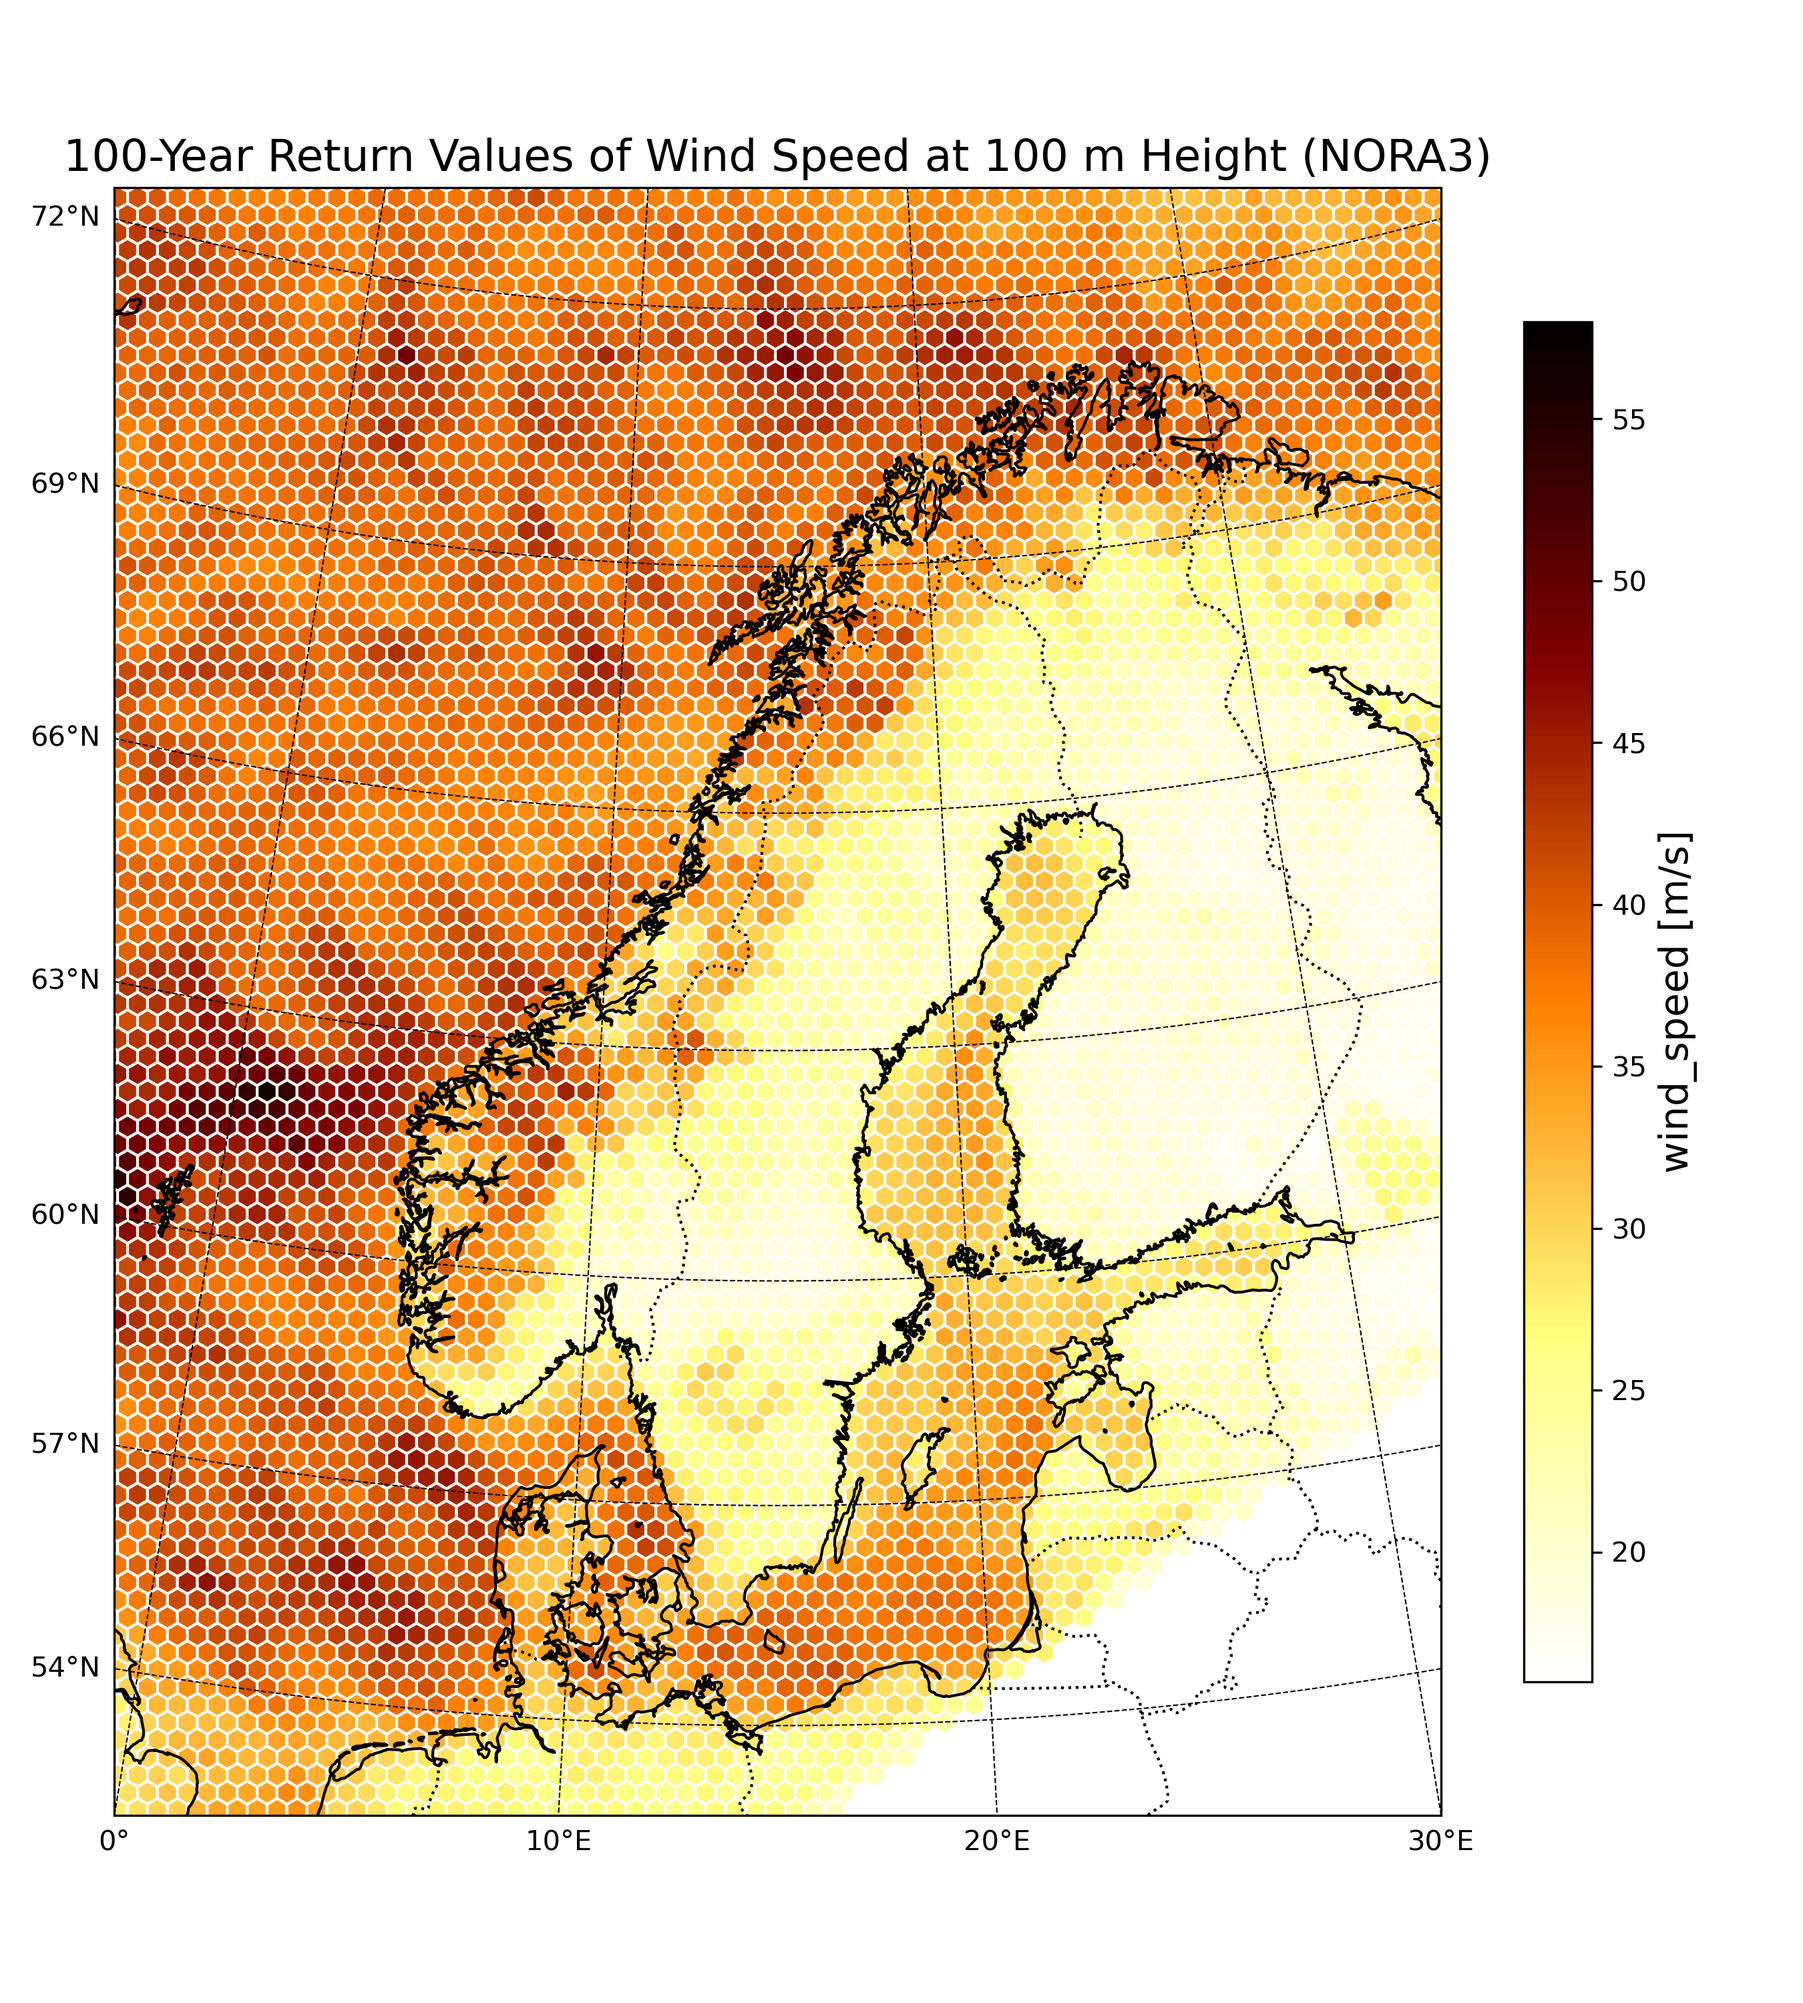
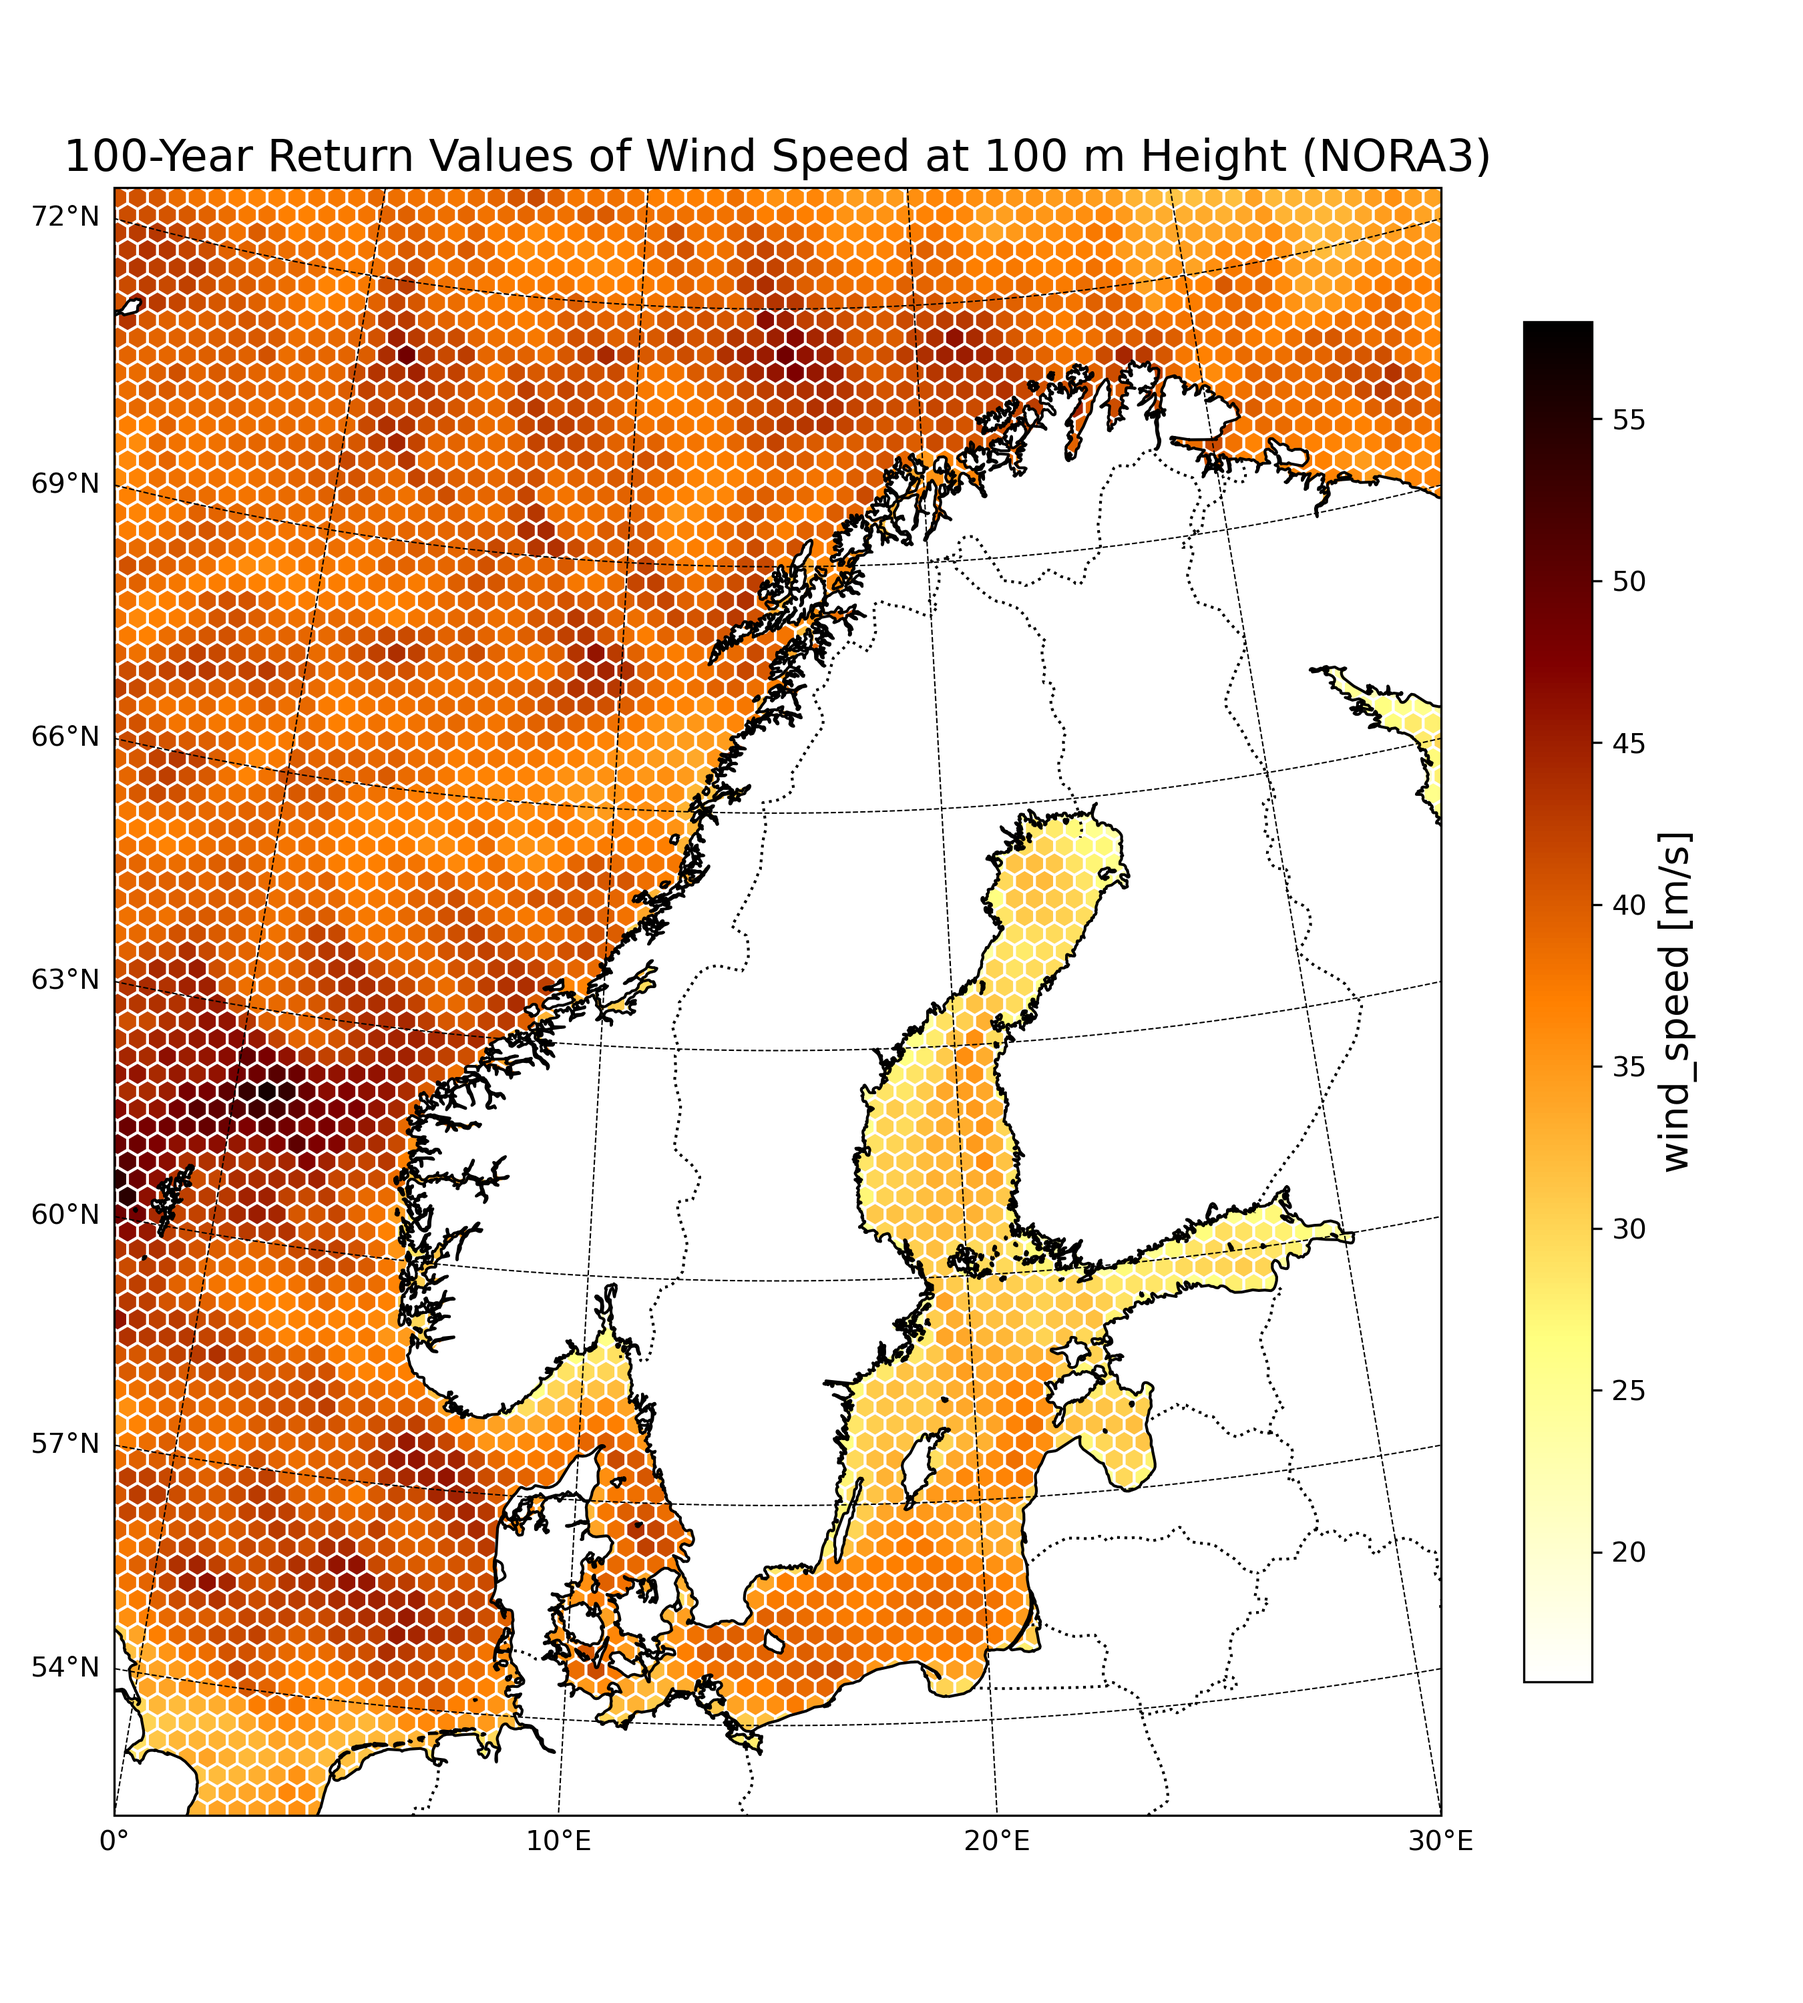
Updated hs and wind speed extreme functions in maps file. Added land mask to hexbin figure. Updated example file.

Changed region(s): [[0.1867, 0.186, 0.8089, 0.93], [0.0622, 0.837, 0.1244, 0.93], [0.4978, 0.713, 0.5289, 0.744]]

diff --git a/metocean_stats/maps/maps.py b/metocean_stats/maps/maps.py
@@ -259,7 +259,6 @@ def plot_extreme_wave_map(return_period=100, product='NORA3', title='empty title
     Plots a map of extreme significant wave height for a given return period using the specified dataset and visualization method.
 
     Parameters:
-    ----------
     - return_period : int, optional, default=100
         The return period in years for calculating the extreme current speeds. Choose between 50 or 100 years.
     - product : str, optional, default='NORA3'
@@ -280,29 +279,27 @@ def plot_extreme_wave_map(return_period=100, product='NORA3', title='empty title
             - 'min'   : Includes all values from the minimum.
 
     Returns:
-    -------
     - fig : matplotlib.figure.Figure
         The figure object containing the generated map plot.
     '''    
     if product == 'NORA3':
-        ds = xr.open_dataset(f'https://thredds.met.no/thredds/dodsC/nora3_subset_stats/atm/CF_hs_{return_period}y_extreme_gumbel_NORA3.nc')
-        
+        ds = xr.open_dataset(f'https://thredds.met.no/thredds/dodsC/nora3_subset_stats/wave/CF_hs_{return_period}y_extreme_gumbel_NORA3.nc')
+
     else:
         print(product, 'is not available')
         return
-    
-    # Transform coordinates based on rotated pole projection
-    lon, lat, _ = get_transformed_coordinates(ds, 'rlon', 'rlat', projection_type= 'rotated_pole') 
+      
     standard_lon, standard_lat = ds['rlon'].values, ds['rlat'].values 
-    
+    standard_lon, standard_lat = np.meshgrid(standard_lon, standard_lat)
+
     data = xr.DataArray(ds['hs'], dims=ds['hs'].dims, coords=ds['hs'].coords)
     data_flat = ds['hs'].values.flatten()
 
     # Remove NaN values
     mask = ~np.isnan(data_flat)
     data_flat = data_flat[mask]
-    lon_flat = lon.flatten()[mask]
-    lat_flat = lat.flatten()[mask]
+    lon_flat = standard_lon.flatten()[mask]
+    lat_flat = standard_lat.flatten()[mask]
 
     # Figure and map
     fig = plt.figure(figsize=(9, 10))
@@ -312,8 +309,14 @@ def plot_extreme_wave_map(return_period=100, product='NORA3', title='empty title
     ax.add_feature(cfeature.LAND, facecolor='white', zorder=2)
     cmap = 'afmhot_r'
 
+    # Rotated projection
+    rotated_pole = ccrs.RotatedPole(
+        pole_latitude=ds.projection_ob_tran.grid_north_pole_latitude,
+        pole_longitude=ds.projection_ob_tran.grid_north_pole_longitude
+    )   
+
     if method == 'hexbin':
-        hb = ax.hexbin(lon_flat, lat_flat, C=data_flat, gridsize=180, cmap=cmap, vmin=np.min(data_flat), vmax=np.max(data_flat), edgecolors='white', transform=ccrs.PlateCarree(), reduce_C_function=np.mean, zorder=1)
+        hb = ax.hexbin(lon_flat, lat_flat, C=data_flat, gridsize=180, cmap=cmap, vmin=np.min(data_flat), vmax=np.max(data_flat), edgecolors='white', transform=rotated_pole, reduce_C_function=np.mean, zorder=1)
         cb = plt.colorbar(hb, ax=ax, orientation='vertical', shrink=0.7, pad=0.05)
         cb.set_label(ds['hs'].attrs.get('standard_name', 'hs') + ' [' + ds['hs'].attrs.get('units', 'm') + ']', fontsize=14)
 
@@ -336,12 +339,6 @@ def plot_extreme_wave_map(return_period=100, product='NORA3', title='empty title
 
         print('Levels contour:', levels_contour)
         print('Levels contourf:', levels_contourf)
-
-        # Rotated projection
-        rotated_pole = ccrs.RotatedPole(
-            pole_latitude=ds.projection_ob_tran.grid_north_pole_latitude,
-            pole_longitude=ds.projection_ob_tran.grid_north_pole_longitude
-        )   
 
         # Filled contour
         cm = plt.contourf(standard_lon, standard_lat, data,levels=levels_contourf, transform=rotated_pole,cmap=cmap, alpha = 0.6, zorder=1, vmin =0, vmax =int(max_val))
@@ -366,7 +363,7 @@ def plot_extreme_wave_map(return_period=100, product='NORA3', title='empty title
 
 
 # Function to plot extreme wind map
-def plot_extreme_wind_map(return_period=100, product='NORA3', z=0, title='empty title', set_extent=[0, 30, 52, 73], output_file='extreme_wind_map.png', method='hexbin', percentile_contour=50):
+def plot_extreme_wind_map(return_period=100, product='NORA3', z=0, title='empty title', set_extent=[0, 30, 52, 73], output_file='extreme_wind_map.png', land_mask=False, method='hexbin', percentile_contour=50):
     '''
     Plots a map of extreme wind speeds for a given return period using the specified dataset and visualization method.
 
@@ -383,6 +380,8 @@ def plot_extreme_wind_map(return_period=100, product='NORA3', z=0, title='empty 
         The map extent specified as [lon_min, lon_max, lat_min, lat_max].
     - output_file: str, optional, default='extreme_wind_map.png'
         The filename to save the plot.
+    - land_mask : bool, optional, default=False  
+        If True, apply a mask to exclude land areas.
     - method : str, optional, default='hexbin'
         Visualization method to use. Options:
             - 'hexbin'  : Plot data using a hexagonal binning with color shading.
@@ -405,8 +404,8 @@ def plot_extreme_wind_map(return_period=100, product='NORA3', z=0, title='empty 
         print(product, 'is not available')
         return
     
-    # Transformed coordinates
-    standard_lon, standard_lat, _ = get_transformed_coordinates(ds, 'x', 'y', projection_type='lambert_conformal')
+    standard_lon = xr.DataArray(ds['longitude'])
+    standard_lat = xr.DataArray(ds['latitude'])
 
     data = ds['wind_speed'].sel(z=z)
     data = Gaussian_filter(data, 1.5)
@@ -415,8 +414,8 @@ def plot_extreme_wind_map(return_period=100, product='NORA3', z=0, title='empty 
     data_flat = ds['wind_speed'].sel(z=z).values.flatten()
     mask = ~np.isnan(data_flat)
     data_flat = data_flat[mask]
-    lon_flat = standard_lon.flatten()[mask]
-    lat_flat = standard_lat.flatten()[mask]
+    lon_flat = standard_lon.values.flatten()[mask]
+    lat_flat = standard_lat.values.flatten()[mask]
 
     # Finding max value in specified area
     lon_min, lon_max, lat_min, lat_max = set_extent
@@ -437,6 +436,9 @@ def plot_extreme_wind_map(return_period=100, product='NORA3', z=0, title='empty 
     ax.coastlines(resolution='10m', zorder=3)
     ax.add_feature(cfeature.BORDERS, linestyle=':', zorder=3)
     cmap='afmhot_r'
+    if land_mask == True:
+        ax.add_feature(cfeature.LAND, facecolor='white', zorder=2)
+    
 
     if method == 'hexbin':
         hb = ax.hexbin(lon_flat, lat_flat, C=data_flat, gridsize=180, cmap=cmap, vmin=min_val, vmax=max_val, edgecolors='white', transform=ccrs.PlateCarree(), reduce_C_function=np.mean, zorder=1)
@@ -520,7 +522,7 @@ def plot_extreme_current_map(return_period=100, z='surface', distribution='gumbe
     '''
 
     if product == 'NORA3':
-        ds = xr.open_dataset(f'https://thredds.met.no/thredds/catalog/nora3_subset_stats/ocean/norkyst2400_annual_maxima_rve.nc')
+        ds = xr.open_dataset(f'https://thredds.met.no/thredds/dodsC/nora3_subset_stats/ocean/norkyst2400_annual_maxima_rve.nc')
         
     else:
         print(product, 'is not available')

diff --git a/examples/example_maps.py b/examples/example_maps.py
@@ -9,6 +9,18 @@ if not folder.exists():
 
 # The following functions will illustrate statistics in a map format:
 maps.plot_points_on_map(lon=[3.35,3.10], lat=[60.40,60.90],label=['NORA3','NORKYST800'],bathymetry='NORA3',output_file= folder /'map.png')
-maps.plot_extreme_wave_map(return_period=100, product='NORA3', title='100-yr return values Hs (NORA3)', set_extent = [0,30,52,73],output_file= folder / 'wave_100yrs.png')
-maps.plot_extreme_wind_map(return_period=100, product='NORA3',z=100, title='100-yr return values Wind at 100 m (NORA3)', set_extent = [0,30,52,73], output_file=folder / 'wind_100yrs_100m.png')
-maps.plot_extreme_wind_map(return_period=100, product='NORA3',z=10, title='100-yr return values Wind at 10 m (NORA3)', set_extent = [0,30,52,73], output_file= folder / 'wind_100yrs_10m.png')
+
+maps.plot_extreme_wave_map(return_period=100, product='NORA3', title='100-Year Return Values of Significant Wave Height (NORA3)', 
+                            set_extent = [0, 30, 52, 73], output_file='wave_100yrs_hexbin.png', method='hexbin', percentile_contour='min')
+maps.plot_extreme_wave_map(return_period=100, product='NORA3', title='100-Year Return Values of Significant Wave Height (NORA3)', 
+                            set_extent = [0, 30, 52, 73], output_file='wave_100yrs_contour.png', method='contour', percentile_contour='min')
+
+maps.plot_extreme_wind_map(return_period=100, product='NORA3', z=100, title=f'100-Year Return Values of Wind Speed at 100 m Height (NORA3)',
+                            set_extent=[0, 30, 52, 73], output_file=f'wind_100yrs_100m_hexbin.png', land_mask=True, method='hexbin', percentile_contour=40)
+maps.plot_extreme_wind_map(return_period=100, product='NORA3', z=100, title=f'100-Year Return Values of Wind Speed at 100 m Height (NORA3)',
+                            set_extent=[0, 30, 52, 73], output_file=f'wind_100yrs_100m_contour.png', land_mask=True, method='contour', percentile_contour=40)
+
+maps.plot_extreme_current_map(return_period=100, z='surface', distribution='gumbel', product='NORA3', title=f'100-Year Return Values of Surface Current Speed (NORA3)',
+                            set_extent = [-2, 30, 52, 76], output_file='current_100yrs_surface_hexbin.png', method='hexbin', percentile_contour=60)
+maps.plot_extreme_current_map(return_period=100, z='surface', distribution='gumbel', product='NORA3', title=f'100-Year Return Values of Surface Current Speed (NORA3)',
+                            set_extent = [-2, 30, 52, 76], output_file='current_100yrs_surface_contour.png', method='contour', percentile_contour=60)

diff --git a/docs/index.rst b/docs/index.rst
@@ -1744,6 +1744,7 @@ Hexbin plot of extreme wind at 100m height based on NORA3 data:
                          product='NORA3',
                          title='100-yr return values Wind at 100 m (NORA3)', 
                          set_extent = [0,30,52,73],
+                         land_mask = True
                          method = 'hexbin',
                          )
 
@@ -1760,6 +1761,7 @@ Contour plot of extreme wind at 100m height based on NORA3 data:
                          product='NORA3',
                          title='100-yr return values Wind at 100 m (NORA3)', 
                          set_extent = [0,30,52,73],
+                         land_mask = False
                          method = 'contour',
                          percentile_contour = 50
                          )
